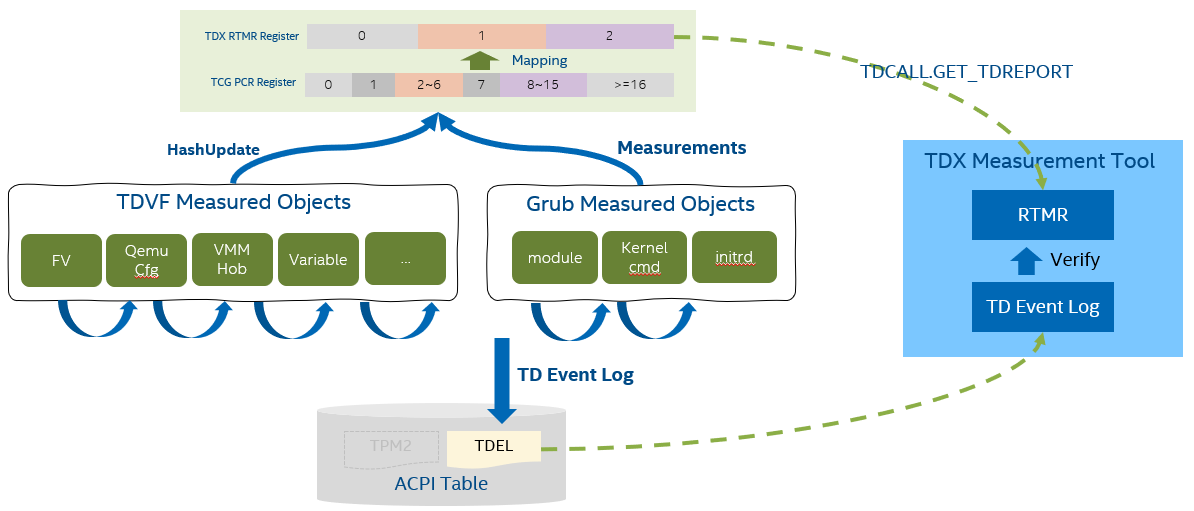
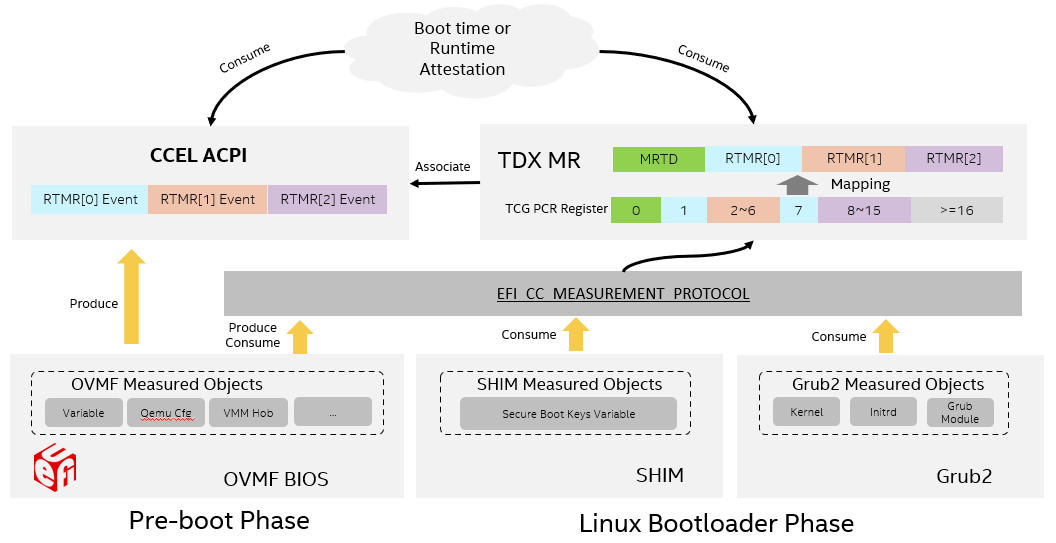
Update TDEL -> CCEL. (#143)
The ACPI table for TDX event log is changed from original "TDEL" to "CCEL"
in latest specification https://cdrdv2.intel.com/v1/dl/getContent/726790

diff --git a/tdx-tools/utils/pytdxmeasure/README.md b/tdx-tools/utils/pytdxmeasure/README.md
@@ -1,7 +1,7 @@
 ## TDX Measurement Tool
 
 The measurement tool runs within TD guest to get RTMR value from TDREPORT via
-Linux attestion driver, and gets the full TD event log from TDEL ACPI table.
+Linux attestion driver, and gets the full TD event log from CCEL ACPI table.
 Then it uses the TD event log to verify the RTMR value or change.
 
 CSP or tenant developer could use it to analyze and debug the TDX measurement
@@ -11,7 +11,7 @@ before providing the TDX guest VM.
 
 ### Prerequisites
 
-The Log Area Start Address (LASA) is from ACPI TDEL table. Please see [GHCI specification](https://software.intel.com/content/dam/develop/external/us/en/documents/intel-tdx-guest-hypervisor-communication-interface.pdf).
+The Log Area Start Address (LASA) is from ACPI CCEL table. Please see [GHCI specification](https://cdrdv2.intel.com/v1/dl/getContent/726790).
 
 ### Run
 
